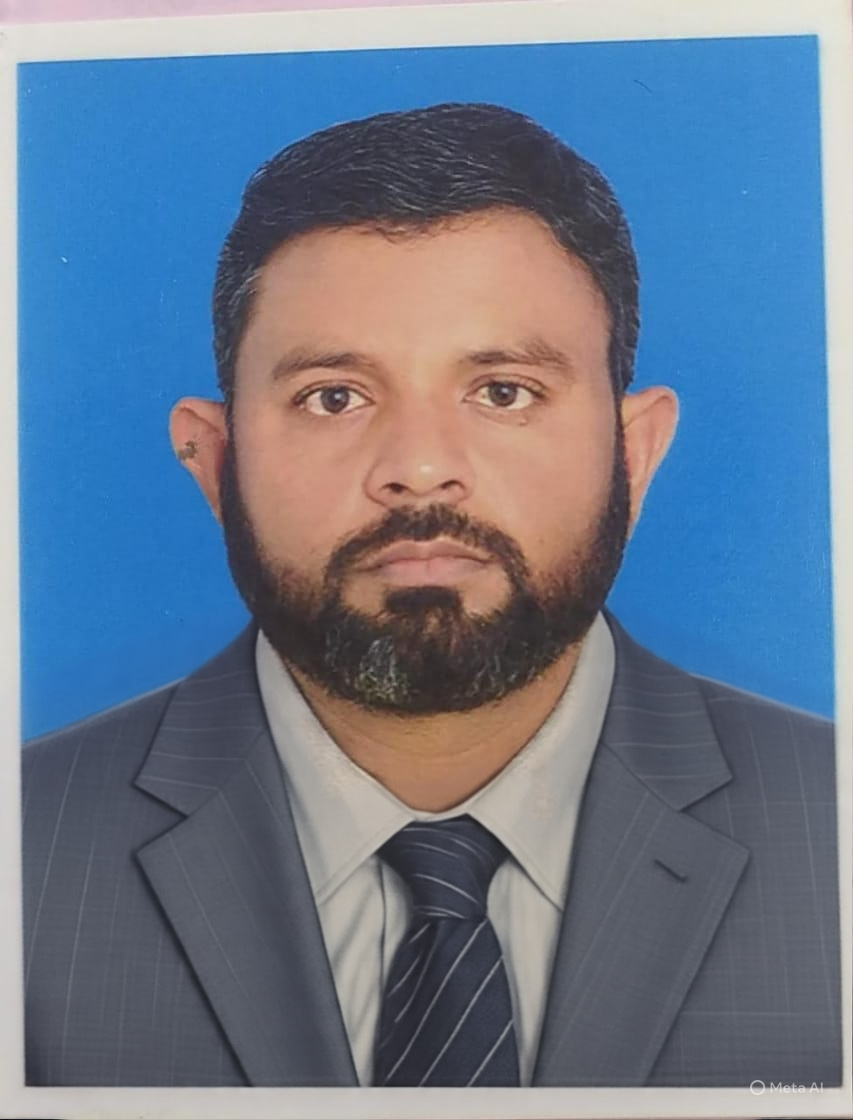
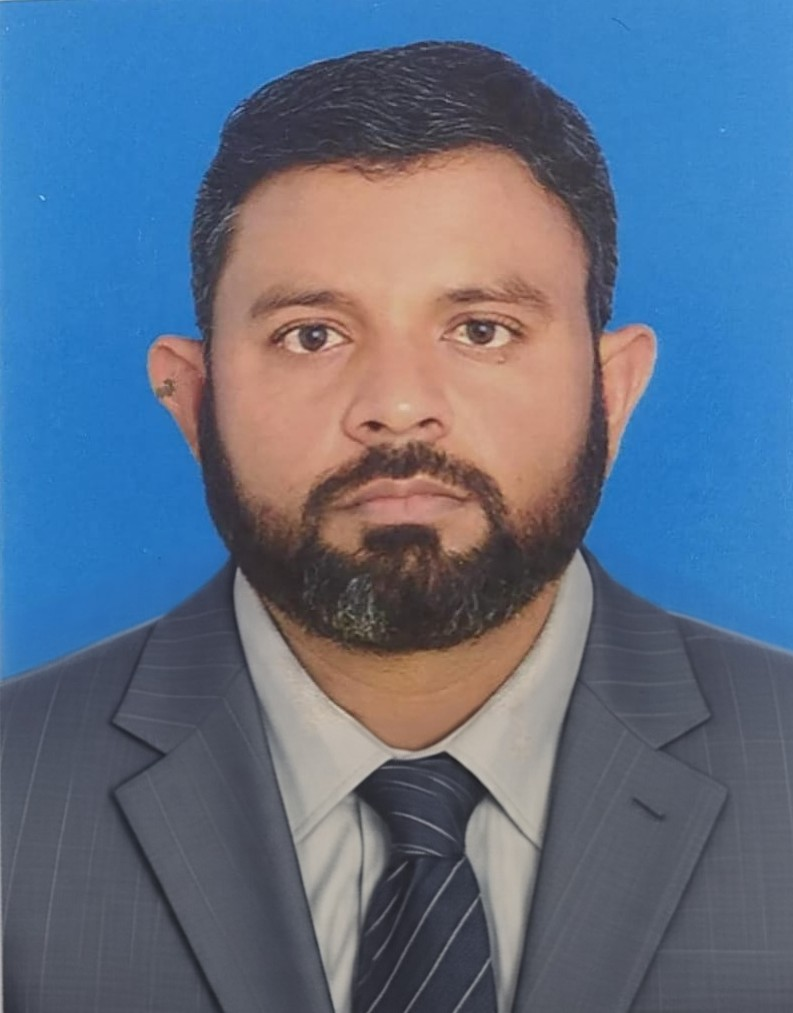
ALL changes done

diff --git a/src/components/Founder.jsx b/src/components/Founder.jsx
@@ -1,0 +1,113 @@
+import React, { useEffect, useState } from "react";
+import { Button } from "antd";
+import AOS from "aos";
+import "aos/dist/aos.css";
+import cmpny_logo from "./SAS LOGO 2.png"
+import logo1 from './Original_logo.jpg'
+import mama from './mamaPhoto.jpeg'
+
+const Founder = () => {
+    const [isMobile, setIsMobile] = useState(false);
+    const [readMore, setReadMore] = useState(false);
+    const [companyData] = useState(`
+    <p>
+    <b> Imran Nagori Sultana – Founder, Shrooq Al Shadi </b> <br/> <br/>
+
+    Imran Nagori Sultana is a passionate entrepreneur based in Mabela and Al Amrat, Oman.
+    He founded Shrooq Al Shadi, a company specialized in Gypsum Décor manufacturing and sales.
+    With a focus on quality, creativity, and customer satisfaction, his mission is to deliver elegant and durable designs that add beauty to homes and offices. <br /><br />
+
+    His vision:
+   “To bring unique and lasting décor that enhances every space.”
+   <br /><br />
+
+ <div>
+    <h1>🌟 النسخة العربية</h1>
+    
+    <h2>عمران ناغوري سلطانه – مؤسس شركة شروق الشادي</h2>
+    
+    <p>
+      عمران ناغوري سلطانه رجل أعمال شغوف يقيم في المعبيلة و العامرات – سلطنة عمان.<br>
+      أسس شركة شروق الشادي المتخصصة في تصنيع وبيع ديكور الجبس.<br>
+      يركّز في عمله على الجودة والإبداع ورضا العملاء، ويهدف إلى تقديم تصاميم أنيقة ومتينة تضيف لمسة جمال للمنازل والمكاتب.
+    </p>
+
+    <h3>رؤيته:</h3>
+    <blockquote>
+      "تقديم ديكور مميز ودائم يزيد من جمال كل مكان."
+    </blockquote>
+  </div>
+    </p>
+  `);
+
+    // useEffect(() => {
+    //     AOS.init({ duration: 1000 });
+
+    //     const handleResize = () => {
+    //         setIsMobile(window.innerWidth <= 768);
+    //     };
+
+    //     window.addEventListener("resize", handleResize);
+    //     handleResize();
+
+    //     return () => {
+    //         window.removeEventListener("resize", handleResize);
+    //     };
+    // }, []);
+
+    return (
+        <section id="about">
+            <div className="text-center mt-10">
+                <h2 className="text-4xl font-bold text-gray-800 relative inline-block">
+
+                    About The Founder
+                    <span className="block w-16 h-1 bg-red-500 mx-auto mt-2"></span>
+                </h2>
+            </div>
+            <div className="flex flex-col md:flex-row items-center justify-center px-6 md:px-50 py-16">
+                <div
+                    data-aos={isMobile ? "fade-up" : "zoom-in-left"}
+                    className="w-full md:w-1/2"
+                >
+                    <img
+                        src={mama}
+                        alt="Company Building"
+                        className="rounded-lg shadow-lg md:w-[500px] md:h-[500px]"
+                    />
+                </div>
+                <div
+                    data-aos={isMobile ? "fade-up" : "fade-right"}
+                    className="w-full md:w-1/2 text-center md:text-left"
+                >
+                    <div className="flex gap-5">
+                     
+                    </div>
+                  
+                    <h2 className="text-3xl font-bold relative inline-block mt-10">
+                        <span className="text-red-500 absolute -left-4 top-1/4 -translate-y-1/2 w-4 h-4 border-t-4 border-l-4 border-red-500"></span>
+                        Imran Nagori 
+                        <span className="text-red-500 absolute -right-4 top-3/4 -translate-y-1/2 w-4 h-4 border-b-4 border-r-4 border-red-500"></span>
+                    </h2>
+
+                    {/* Render HTML with line breaks using dangerouslySetInnerHTML */}
+                    <div
+                        className={`mt-4 text-gray-600 text-justify ${(!readMore) && "line-clamp-[10]"}`}
+                        dangerouslySetInnerHTML={{ __html: companyData }}
+                    />
+
+                    <div data-aos={isMobile ? "flip-up" : "zoom-in"} className="mt-6">
+                        <Button
+                            type="primary"
+                            className="bg-red-500 hover:bg-red-600 px-6 py-2 rounded-full shadow-lg text-white font-semibold flex items-center gap-2"
+                            onClick={() => setReadMore(!readMore)}
+                        >
+                            Read {readMore ? "Less" : "More"} →
+                        </Button>
+                    </div>
+                </div>
+            </div>
+        </section>
+    );
+};
+
+export default Founder;

diff --git a/src/components/TheCompany.jsx b/src/components/TheCompany.jsx
@@ -10,15 +10,22 @@ const CompanySection = () => {
   const [readMore, setReadMore] = useState(false);
   const [companyData] = useState(`
     <p>
-    Shrooq Al Shadi is a leading gypsum décor manufacturing and supply company based in the heart of Oman,
-     renowned for delivering premium-quality gypsum products tailored for residential, commercial, and industrial applications.
-      With a foundation built on craftsmanship, innovation, and precision, we bring a legacy of
-       excellence to every corner, ceiling, and wall we touch.<br /><br />
+    Our company, Shrooq al Shadi, began its journey in 2005 in Oman, starting with gypsum decoration work in Ruwi and Muttrah. Initially, we specialized in cornice sets, jabiyas, and other gypsum designs.<br/> <br/>
 
-Our extensive portfolio includes everything from timeless classic cornices and ceiling roses to sleek modern panels, artistic wall claddings, 
-and intricate custom-moulded designs. Each product is meticulously crafted using high-grade materials and cutting-edge manufacturing techniques 
-to ensure superior finish, durability, and aesthetic appeal. <br /><br />At Shrooq Al Shadi, we understand that interiors are more than just spaces—they are reflections of personality, culture, and functionality. That’s why we work closely with architects, interior designers, contractors, and homeowners to create gypsum solutions that harmonize with their vision while meeting the highest industry standards.
-<br /><br />
+Gradually, we expanded our services and today we work in Gypsum Boards, Cement Boards, Gypsum Tiles, and Putty – delivering high-quality products and elegant designs.<br/> <br/>
+
+Currently, Shrooq al Shadi has three branches in Oman:
+<br/>
+	•	Al Mabellah Saneha
+  <br/> 
+	•	Al Amrat Saneha
+<br/>
+  •	Samail
+<br/> <br/>
+
+Our mission is to provide our clients with premium quality, innovative designs, and trusted service.<br/>
+Our dedicated team ensures that every project is completed with excellence and attention to detail.
+<br/> <br/>
     Whether you’re building, renovating, or designing interiors, Shrooq Al Shadi provides the materials and expertise to bring your vision to life  <br />
       Trust us to turn your vision into reality — with precision, elegance, and trust.
     </p>

diff --git a/src/pages/Home.jsx b/src/pages/Home.jsx
@@ -10,6 +10,7 @@ import partition_boards from '../assets/images/partition_boards.png';
 // import board2 from '../assets/images/board2.png';
 import board3 from '../assets/images/board3.png';
 import board1 from '../assets/images/board1.jpeg';
+import Aiimg from '../assets/images/aiImg.jpeg';
 // import board5 from '../assets/images/board5.jpeg';
 
 // import board4 from '../assets/images/board4.jpeg';
@@ -42,7 +43,7 @@ const Home = () => {
   };
 
   const images = [
-    partition_boards,board1,board3
+    partition_boards,board1,board3,Aiimg
     // 'https://images.unsplash.com/photo-1682888813789-c39fe30921e2?q=80&w=2070&auto=format&fit=crop&ixlib=rb-4.0.3&ixid=M3wxMjA3fDB8MHxwaG90by1wYWdlfHx8fGVufDB8fHx8fA%3D%3D',
     // 'https://images.unsplash.com/photo-1633119713175-c53c29479984?q=80&w=2070&auto=format&fit=crop&ixlib=rb-4.0.3&ixid=M3wxMjA3fDB8MHxwaG90by1wYWdlfHx8fGVufDB8fHx8fA%3D%3D',
   ];

diff --git a/src/pages/Mainpage.jsx b/src/pages/Mainpage.jsx
@@ -18,6 +18,7 @@ import WhatsAppChatBox from '../components/WhatsAppChatBox'
 import TrustedCertified from '../components/certified'
 import VisitShowroom from '../components/showroom'
 import Quartz from '../components/Quartz'
+import Founder from '../components/Founder';
 
 
 
@@ -27,12 +28,13 @@ function Mainpage() {
     <HoNavbarme/>
     <WhatsAppChatBox/>
     <Home/>
-    <CompanySection/>
+    <Founder/>
      <MarbleCollection/>
     {/* <GallerySection/>  */}
     <Quartz/>
     {/* <TrustedCertified/> */}
     {/* <EventsSection/> */}
+    <CompanySection/>
     <VisitShowroom/>
     <Footer/>
 
